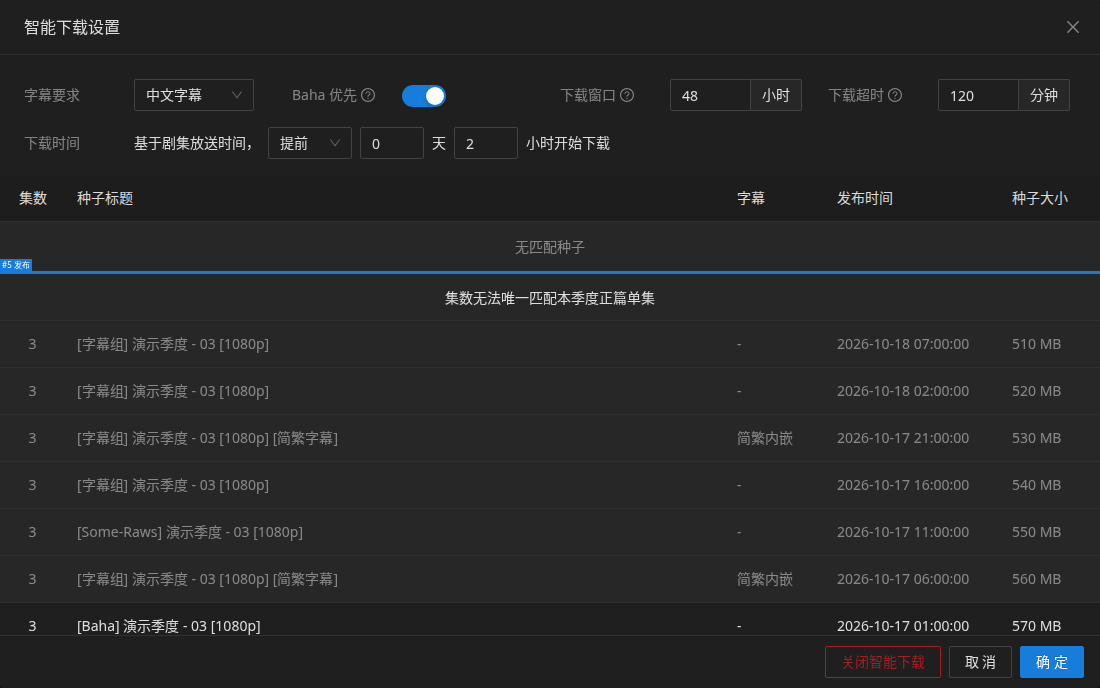
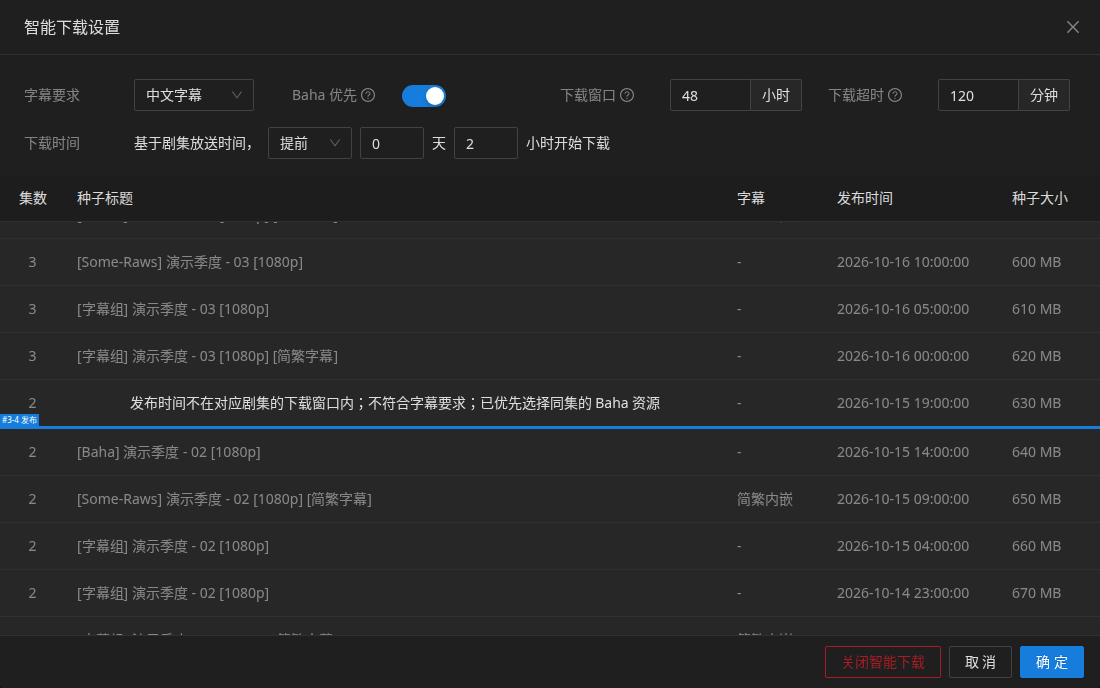
fix(admin): 将智能下载排除提示限制在标题单元格

diff --git a/apps/admin/src/pages/season/parts/smart-download/index.module.less b/apps/admin/src/pages/season/parts/smart-download/index.module.less
@@ -105,9 +105,6 @@
   td:nth-child(2) {
     overflow-wrap: anywhere;
   }
-  tbody tr {
-    position: relative;
-  }
   tbody tr:not(.excluded):hover {
     background: var(--lani-selected);
   }
@@ -116,22 +113,32 @@
   color: var(--lani-text-secondary);
   background: var(--lani-muted);
 }
+.titleCell {
+  position: relative;
+}
 .exclusionReason {
   position: absolute;
-  inset: 0;
+  inset: 0 12px;
   display: flex;
   align-items: center;
   justify-content: center;
-  padding: 8px 12px;
+  overflow: hidden;
   color: var(--lani-text);
   text-align: center;
   visibility: hidden;
   pointer-events: none;
+
+  > span {
+    display: -webkit-box;
+    -webkit-box-orient: vertical;
+    -webkit-line-clamp: 2;
+    max-height: 100%;
+    overflow: hidden;
+  }
 }
 .excluded[tabindex]:hover,
 .excluded[tabindex]:focus {
-  .cellContent,
-  td[data-release]::after {
+  .titleCell .cellContent {
     visibility: hidden;
   }
   .exclusionReason {

diff --git a/apps/admin/src/pages/season/parts/smart-download/index.tsx b/apps/admin/src/pages/season/parts/smart-download/index.tsx
@@ -440,7 +440,7 @@ export function SettingsDialog({
                             : '-'}
                         </span>
                       </td>
-                      <td>
+                      <td className={styles.titleCell}>
                         <span className={styles.cellContent}>
                           {torrent.title}
                         </span>
@@ -449,7 +449,7 @@ export function SettingsDialog({
                             id={reasonId}
                             className={styles.exclusionReason}
                           >
-                            {exclusion}
+                            <span>{exclusion}</span>
                           </span>
                         )}
                       </td>

diff --git a/docs/docs/usage/smart-download.md b/docs/docs/usage/smart-download.md
@@ -24,7 +24,7 @@ sidebar_position: 2
 
 同集的合格资源按发布时间从早到晚选择。BD、BDRIP、DVD、DVDRIP，以及标题包含 v2 及以上版本、repack、proper、修正或修复标记的资源会被排除；还可配置下文的标题屏蔽规则。
 
-预览按发布时间倒序展示，每次显示 30 行。lani 会预先读取足够的资源，以完整判断发布区间；尚未取完整的旧区间暂时置灰。蓝线和角标表示按当前草稿计算的开始下载时间。区间内没有资源时以灰色行显示「无匹配种子」。不符合规则的种子同样置灰，悬停或使用键盘聚焦时隐藏各列内容，居中显示排除原因；符合规则的种子悬停时以浅蓝色突出显示。
+预览按发布时间倒序展示，每次显示 30 行。lani 会预先读取足够的资源，以完整判断发布区间；尚未取完整的旧区间暂时置灰。蓝线和角标表示按当前草稿计算的开始下载时间。区间内没有资源时以灰色行显示「无匹配种子」。不符合规则的种子同样置灰，悬停或使用键盘聚焦时，标题单元格以普通文字颜色居中显示排除原因，最多两行并保持行高，其他字段和发布角标仍然可见；符合规则的种子悬停时以浅蓝色突出显示。
 
 ![暗色主题下悬停查看种子排除原因](/img/smart-download/excluded-dark.png)
 
